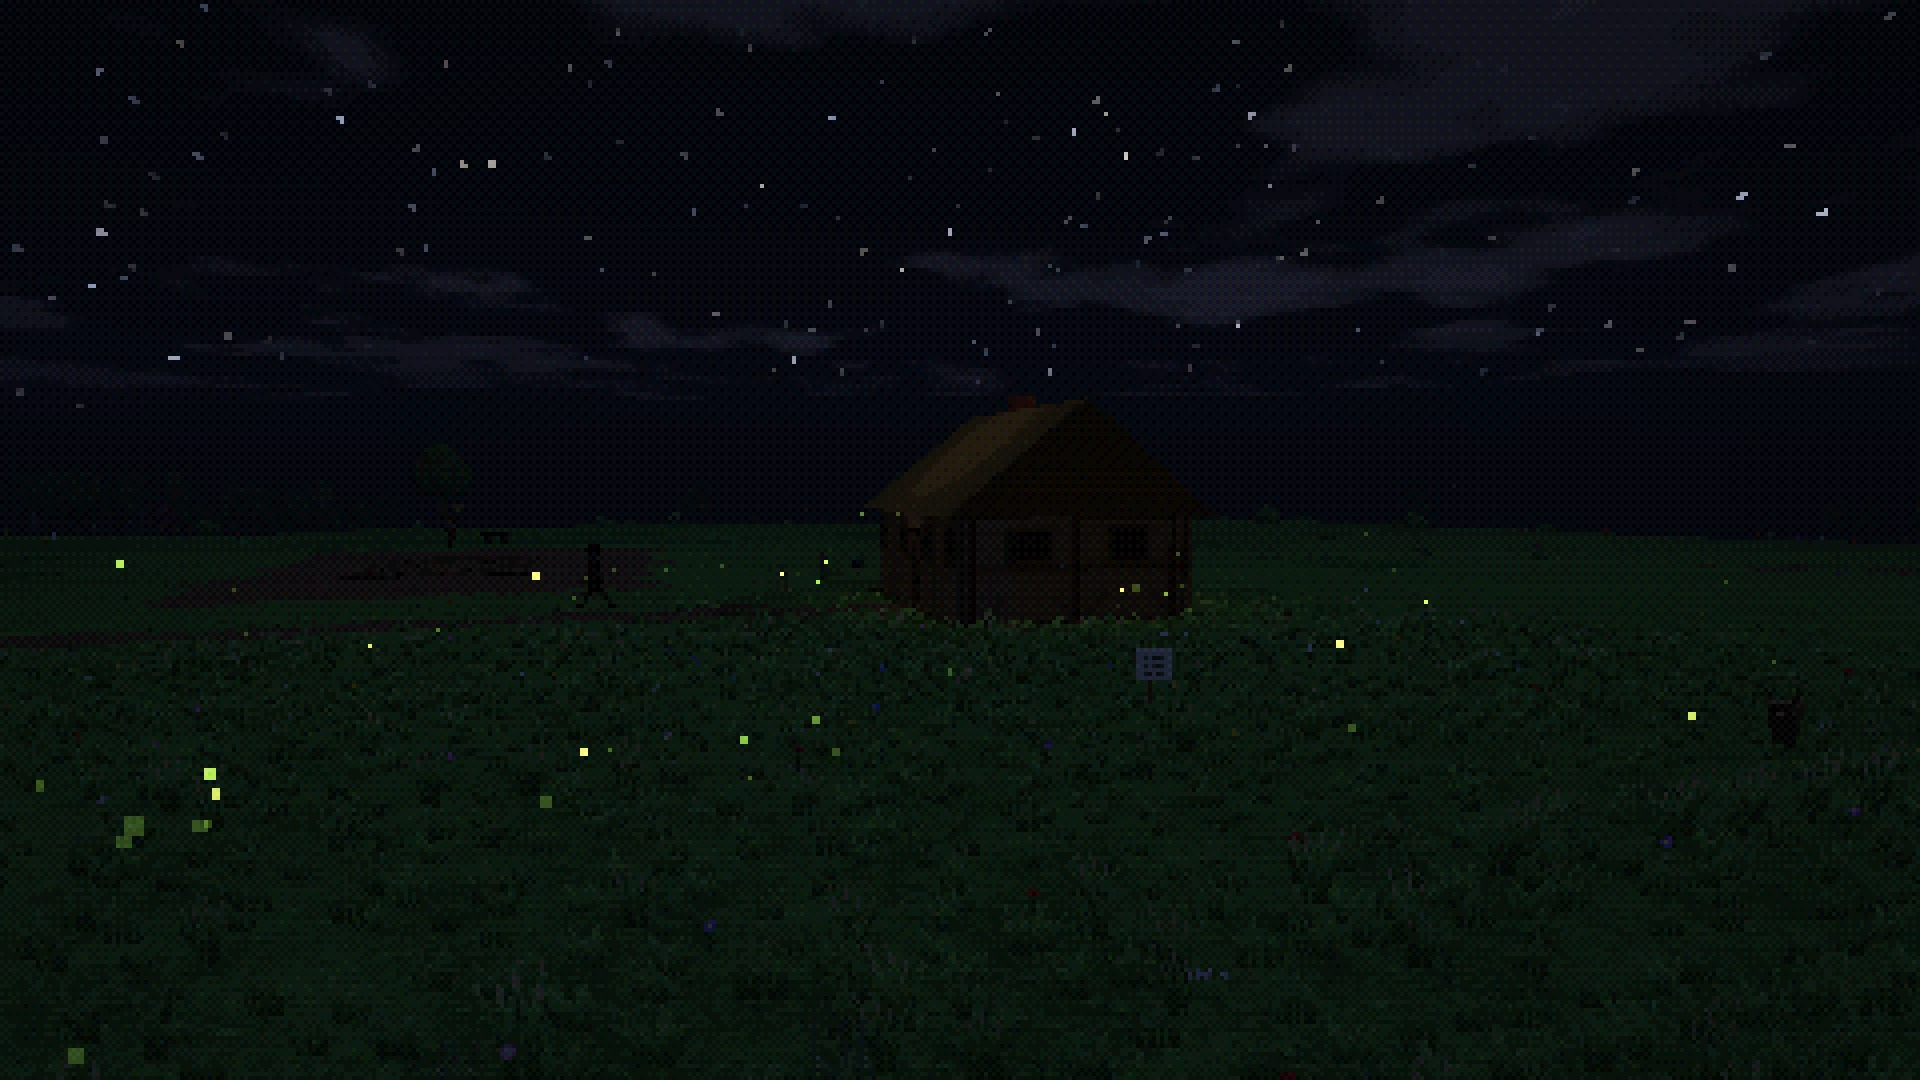
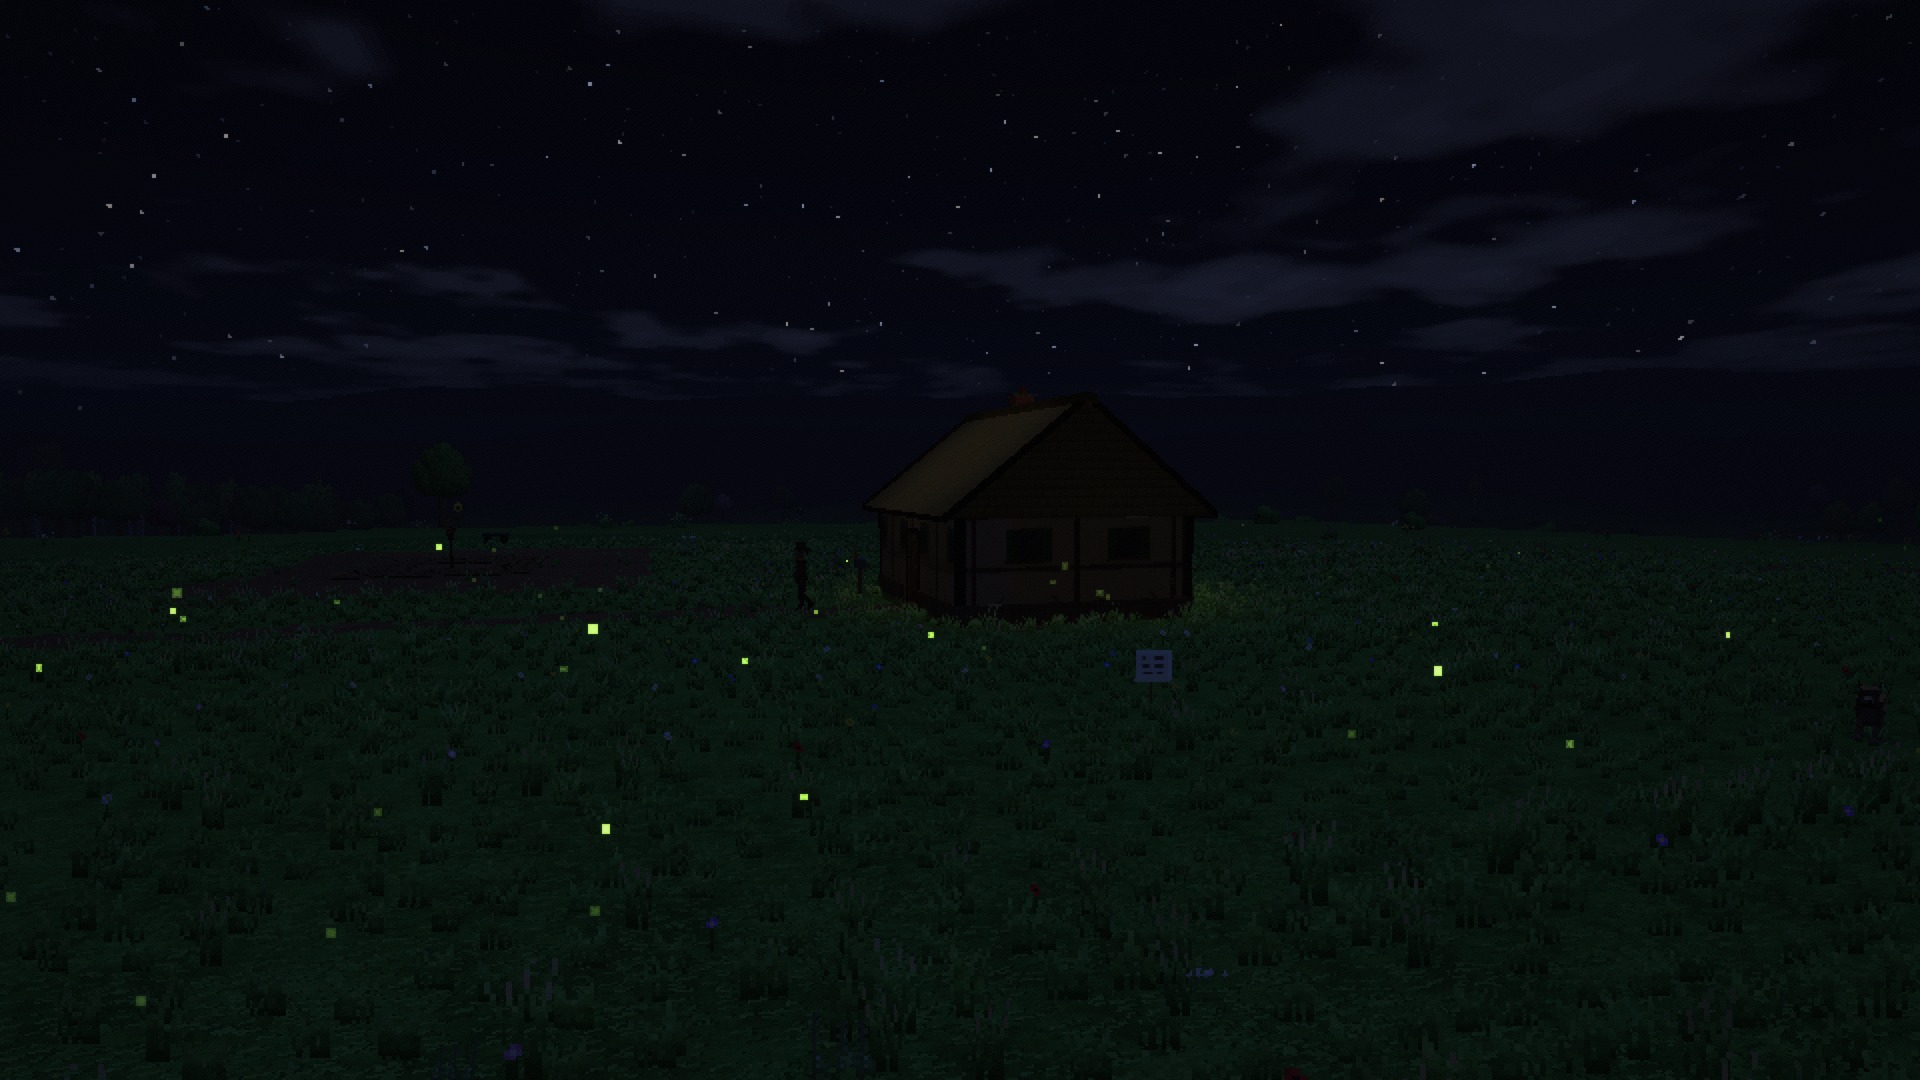
Captures Steam : les premières refaites avec les nouveaux graphismes ; plus de temps pour les vues avec l'interface
Claude-Session: https://claude.ai/code/session_01Py79UzqjLTworwttQkr2sX

Changed region(s): [[0.0625, 0.7639, 0.0938, 0.7944]]

diff --git a/steam/scripts/captures.js b/steam/scripts/captures.js
@@ -88,7 +88,7 @@ const VUES = [
       if (o.ecran) {
         await p.evaluate(() => { game.player.hp = 100; play.hurtFlash = 0; __render(true); __step(3); play.hurtFlash = 0; });
         await p.waitForTimeout(300);
-        data = await p.screenshot({ type: 'jpeg', quality: 90 });
+        data = await p.screenshot({ type: 'jpeg', quality: 90, timeout: 180000 });
       } else {
         const url = await p.evaluate(() => { game.player.hp = 100; play.hurtFlash = 0; __render(true); __step(3); return document.querySelector('#gl').toDataURL('image/jpeg', 0.92); });
         data = Buffer.from(url.split(',')[1], 'base64');
